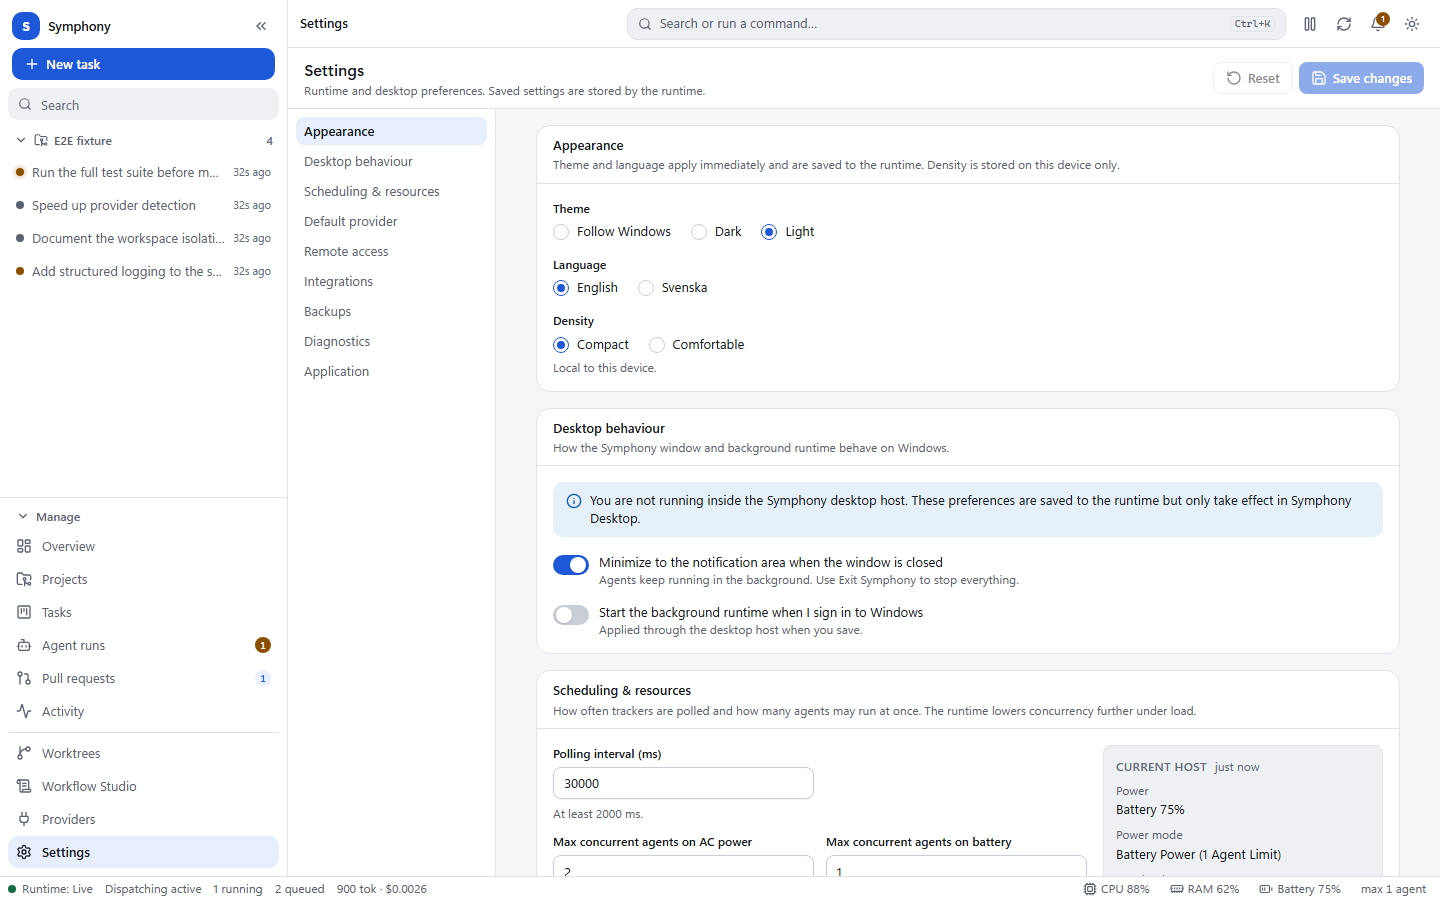
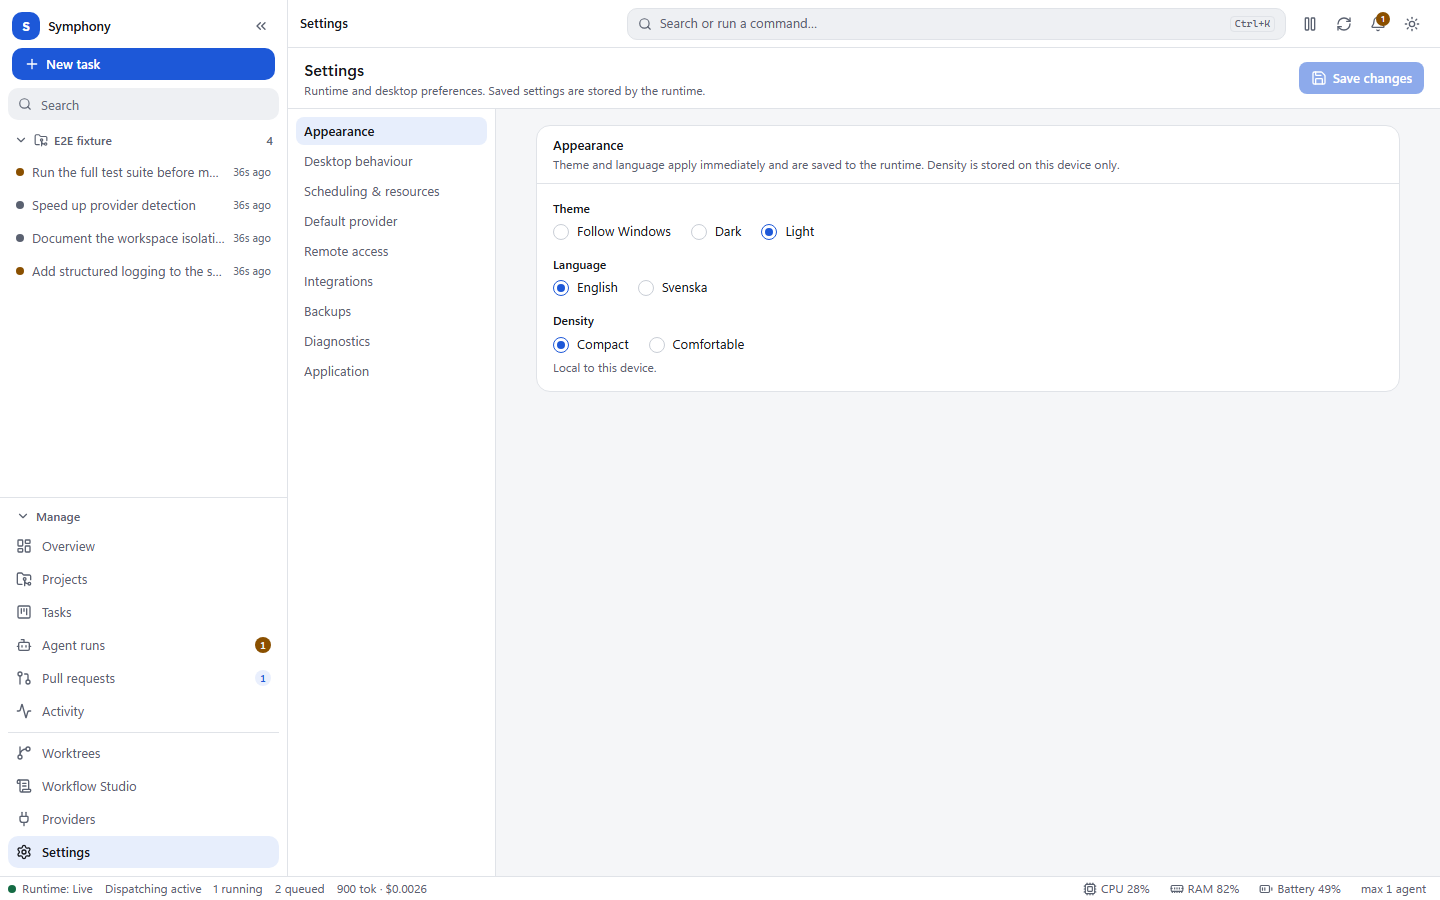
Show fewer things at once on the board, Settings and Providers
The Kanban board shows Backlog, Blocked and Cancelled only when they hold
a task or while a card is dragged (they stay drop targets). Settings
shows one section at a time and marks a section with an invalid field in
the section list. Each provider card keeps capabilities and models behind
one disclosure. The shortcuts e2e now opens the Application section
first, and the board and Settings screenshots are refreshed.

diff --git a/apps/desktop/src/features/settings/SettingsPage.tsx b/apps/desktop/src/features/settings/SettingsPage.tsx
@@ -1,8 +1,8 @@
-import { useCallback, useMemo, useState } from "react";
+import { useCallback, useMemo, useRef, useState } from "react";
 import { RotateCcw, Save } from "lucide-react";
 import { errorMessage } from "@symphony/api-client";
 import { formatMessage, type AppSettings, type Locale } from "@symphony/shared-types";
-import { Alert, Badge, Button, cn, ErrorState, LoadingRows, PageHeader, Spinner, useDesign, useNotify, type ThemeMode } from "@symphony/ui";
+import { Alert, Badge, Button, cn, ErrorState, LoadingRows, PageHeader, Spinner, useNotify, type ThemeMode } from "@symphony/ui";
 import { useMessages } from "../../lib/i18n.js";
 import { useSaveSettings, useSettings } from "../../lib/queries.js";
 import { useUiStore } from "../../store/uiStore.js";
@@ -18,11 +18,25 @@ import {
   RemoteSection,
   SECTION_IDS,
   SchedulingSection,
-  sectionDomId,
   type SectionId
 } from "./sections.js";
 import { portOf, serverErrorFields, validateSettings, type SettingsErrors, type SettingsField } from "./validation.js";
 import { useRuntime } from "../../runtime/RuntimeProvider.js";
+
+/** The section each validated field lives in, so the nav can flag a section that has an error. */
+const SECTION_FIELDS: Partial<Record<SectionId, ReadonlyArray<SettingsField>>> = {
+  scheduling: [
+    "polling_interval_ms",
+    "max_concurrent_on_ac",
+    "max_concurrent_on_battery",
+    "high_memory_threshold_percent",
+    "high_cpu_threshold_percent",
+    "event_retention_days",
+    "pr_refresh_interval_minutes"
+  ],
+  remote: ["remote_bind_address", "remote_port", "remote_allowed_origins"],
+  backups: ["backup_interval_hours", "backup_keep"]
+};
 
 /** Fields edited through the draft form (theme/locale persist immediately; others are not edited here). */
 type EditableSettings = Pick<
@@ -80,7 +94,6 @@ function sameEditable(a: AppSettings, b: AppSettings): boolean {
 export default function SettingsPage() {
   const m = useMessages(settingsMessages);
   const notify = useNotify();
-  const { reducedMotion } = useDesign();
   const settings = useSettings();
   const save = useSaveSettings();
   const themeMode = useUiStore((s) => s.themeMode);
@@ -151,9 +164,11 @@ export default function SettingsPage() {
   const onTheme = (mode: ThemeMode) => setThemeMode(mode);
   const onLocale = (next: Locale) => setLocale(next);
 
+  // One section at a time keeps the page short; edits live in the shared draft, so switching loses nothing.
+  const content = useRef<HTMLDivElement>(null);
   const goTo = (id: SectionId) => {
     setActive(id);
-    document.getElementById(sectionDomId(id))?.scrollIntoView({ block: "start", behavior: reducedMotion ? "auto" : "smooth" });
+    content.current?.scrollTo({ top: 0 });
   };
 
   return (
@@ -209,12 +224,15 @@ export default function SettingsPage() {
                   )}
                 >
                   {m.sections[id]}
+                  {(SECTION_FIELDS[id] ?? []).some((field) => errors[field]) ? (
+                    <span className="ms-auto size-2 shrink-0 rounded-full bg-destructive" role="img" aria-label={m.invalidSection} />
+                  ) : null}
                 </button>
               </li>
             ))}
           </ul>
         </nav>
-        <div className="min-h-0 flex-1 overflow-auto">
+        <div ref={content} className="min-h-0 flex-1 overflow-auto">
           <div className="mx-auto flex max-w-4xl flex-col gap-4 p-4">
             {settings.isPending ? (
               <LoadingRows rows={10} label={m.title} />
@@ -225,22 +243,24 @@ export default function SettingsPage() {
                 {serverMessage ? (
                   <Alert intent="error" title={m.saveFailed}>{serverMessage}</Alert>
                 ) : null}
-                <AppearanceSection
-                  themeMode={themeMode}
-                  locale={locale}
-                  density={density}
-                  onTheme={onTheme}
-                  onLocale={onLocale}
-                  onDensity={setDensity}
-                />
-                <DesktopSection draft={current} errors={errors} update={update} />
-                <SchedulingSection draft={current} errors={errors} update={update} />
-                <DefaultsSection draft={current} errors={errors} update={update} />
-                <RemoteSection draft={current} errors={errors} update={update} />
-                <IntegrationsSection />
-                <BackupsSection draft={current} errors={errors} update={update} />
-                <DiagnosticsSection />
-                <ApplicationSection />
+                {active === "appearance" ? (
+                  <AppearanceSection
+                    themeMode={themeMode}
+                    locale={locale}
+                    density={density}
+                    onTheme={onTheme}
+                    onLocale={onLocale}
+                    onDensity={setDensity}
+                  />
+                ) : null}
+                {active === "desktop" ? <DesktopSection draft={current} errors={errors} update={update} /> : null}
+                {active === "scheduling" ? <SchedulingSection draft={current} errors={errors} update={update} /> : null}
+                {active === "defaults" ? <DefaultsSection draft={current} errors={errors} update={update} /> : null}
+                {active === "remote" ? <RemoteSection draft={current} errors={errors} update={update} /> : null}
+                {active === "integrations" ? <IntegrationsSection /> : null}
+                {active === "backups" ? <BackupsSection draft={current} errors={errors} update={update} /> : null}
+                {active === "diagnostics" ? <DiagnosticsSection /> : null}
+                {active === "application" ? <ApplicationSection /> : null}
               </>
             )}
           </div>

diff --git a/apps/desktop/src/features/providers/ProviderCard.tsx b/apps/desktop/src/features/providers/ProviderCard.tsx
@@ -177,40 +177,48 @@ export const ProviderCard: React.FC<ProviderCardProps> = React.memo(function Pro
         ) : null}
       </Section>
 
-      <Section title={m.capabilities}>
-        <ul
-          aria-label={formatMessage(m.capabilitiesLabel, { provider: provider.display_name })}
-          className="grid grid-cols-1 gap-x-4 gap-y-1 @md:grid-cols-2"
-        >
-          {capabilities.map(({ key, supported }) => (
-            <li key={key} className="flex items-center gap-1.5 text-sm">
-              {supported ? (
-                <Check className="size-4 shrink-0 text-success" aria-hidden />
-              ) : (
-                <X className="size-4 shrink-0 text-subtle-foreground" aria-hidden />
-              )}
-              <span className={supported ? "text-foreground" : "text-muted-foreground"}>{m.capability[key]}</span>
-              <span className="sr-only">: {supported ? m.supported : m.unsupported}</span>
-            </li>
-          ))}
-        </ul>
-      </Section>
+      {/* Reference detail: one click away instead of two more sections on every card. */}
+      <details className="rounded-md border border-border @2xl:col-span-2">
+        <summary className="cursor-pointer select-none px-3 py-2 text-xs font-semibold uppercase tracking-wide text-subtle-foreground">
+          {m.moreDetails}
+        </summary>
+        <div className="grid gap-4 border-t border-border p-3 @2xl:grid-cols-2">
+          <Section title={m.capabilities}>
+            <ul
+              aria-label={formatMessage(m.capabilitiesLabel, { provider: provider.display_name })}
+              className="grid grid-cols-1 gap-x-4 gap-y-1 @md:grid-cols-2"
+            >
+              {capabilities.map(({ key, supported }) => (
+                <li key={key} className="flex items-center gap-1.5 text-sm">
+                  {supported ? (
+                    <Check className="size-4 shrink-0 text-success" aria-hidden />
+                  ) : (
+                    <X className="size-4 shrink-0 text-subtle-foreground" aria-hidden />
+                  )}
+                  <span className={supported ? "text-foreground" : "text-muted-foreground"}>{m.capability[key]}</span>
+                  <span className="sr-only">: {supported ? m.supported : m.unsupported}</span>
+                </li>
+              ))}
+            </ul>
+          </Section>
 
-      <Section title={m.models}>
-        {models.length > 0 ? (
-          <ul className="flex flex-wrap gap-1.5" aria-label={m.models}>
-            {models.map((name) => (
-              <li key={name}>
-                <Badge tone="outline" className="font-mono">
-                  {name}
-                </Badge>
-              </li>
-            ))}
-          </ul>
-        ) : (
-          <p className="text-xs text-muted-foreground">{m.noModels}</p>
-        )}
-      </Section>
+          <Section title={m.models}>
+            {models.length > 0 ? (
+              <ul className="flex flex-wrap gap-1.5" aria-label={m.models}>
+                {models.map((name) => (
+                  <li key={name}>
+                    <Badge tone="outline" className="font-mono">
+                      {name}
+                    </Badge>
+                  </li>
+                ))}
+              </ul>
+            ) : (
+              <p className="text-xs text-muted-foreground">{m.noModels}</p>
+            )}
+          </Section>
+        </div>
+      </details>
 
       <div className="space-y-2 border-t border-border pt-3 @2xl:col-span-2">
         <div className="flex flex-wrap items-end gap-2">

diff --git a/apps/desktop/src/features/tasks/tasks.test.tsx b/apps/desktop/src/features/tasks/tasks.test.tsx
@@ -2,10 +2,11 @@ import { fireEvent, screen, waitFor, within } from "@testing-library/react";
 import { describe, expect, it, vi } from "vitest";
 import { getTranslations } from "@symphony/shared-types";
 import NewTaskDialog from "../composer/NewTaskDialog.js";
+import TasksPage from "./TasksPage.js";
 import { deriveTitle } from "../composer/TaskComposer.js";
 import { allowedMoveTargets, applyDrop, parseLabels, resolveDrop } from "./taskLogic.js";
 import { createMockRuntime, renderWithProviders } from "../../test/renderWithProviders.js";
-import { project, providerStatus, settings, task } from "../../test/fixtures.js";
+import { project, providerStatus, settings, snapshot, task } from "../../test/fixtures.js";
 import { useUiStore } from "../../store/uiStore.js";
 
 describe("board state machine", () => {
@@ -124,5 +125,29 @@ describe("deriveTitle", () => {
     const early = `${"a".repeat(30)} ${"b".repeat(30)} ${"c".repeat(10)} ${"d".repeat(40)}`;
     expect(deriveTitle(early)).toBe(`${"a".repeat(30)} ${"b".repeat(30)} ${"c".repeat(10)}…`);
     expect(deriveTitle("#\nFix the build")).toBe("Fix the build");
+  });
+});
+
+describe("task board columns", () => {
+  const boardRuntime = (tasks: ReturnType<typeof task>[]) =>
+    createMockRuntime({
+      "GET /settings": () => settings(),
+      "GET /state": () => snapshot(),
+      "GET /projects": () => [project({ id: "p1" })],
+      "GET /tasks": () => tasks,
+      "GET /approvals": () => [],
+      "GET /providers": () => []
+    });
+
+  it("shows Backlog, Blocked and Cancelled only once they hold a task", async () => {
+    useUiStore.getState().setTaskView("board");
+    const { unmount } = renderWithProviders(<TasksPage />, { runtime: boardRuntime([task({ id: "a", project_id: "p1", status: "ready" })]), route: "/tasks" });
+    expect(await screen.findByRole("region", { name: "Ready" })).toBeInTheDocument();
+    for (const name of ["Backlog", "Blocked", "Cancelled"]) expect(screen.queryByRole("region", { name })).not.toBeInTheDocument();
+    unmount();
+
+    renderWithProviders(<TasksPage />, { runtime: boardRuntime([task({ id: "b", project_id: "p1", status: "blocked" })]), route: "/tasks" });
+    expect(await screen.findByRole("region", { name: "Blocked" })).toBeInTheDocument();
+    expect(screen.queryByRole("region", { name: "Backlog" })).not.toBeInTheDocument();
   });
 });

diff --git a/apps/desktop/src/features/settings/settings.test.tsx b/apps/desktop/src/features/settings/settings.test.tsx
@@ -264,13 +264,40 @@ describe("BackupsSection", () => {
 });
 
 describe("SettingsPage", () => {
-  it("offers Reset only once something has been edited", async () => {
+  const renderPage = () => {
     const rt = createMockRuntime({ "GET /settings": () => settings(), "GET /providers": () => [] });
     renderWithProviders(<SettingsPage />, { runtime: rt, route: "/settings" });
+  };
+  const openSection = (name: string) => fireEvent.click(within(screen.getByRole("navigation", { name: "Settings sections" })).getByRole("button", { name }));
+
+  it("shows one section at a time", async () => {
+    renderPage();
+    expect(await screen.findByRole("heading", { name: "Appearance" })).toBeInTheDocument();
+    expect(screen.queryByRole("heading", { name: "Backups" })).not.toBeInTheDocument();
+    openSection("Backups");
+    expect(await screen.findByRole("heading", { name: "Backups" })).toBeInTheDocument();
+    expect(screen.queryByRole("heading", { name: "Appearance" })).not.toBeInTheDocument();
+  });
+
+  it("offers Reset only once something has been edited", async () => {
+    renderPage();
+    await screen.findByRole("heading", { name: "Appearance" });
+    openSection("Scheduling & resources");
     const polling = await screen.findByLabelText("Polling interval (ms)");
     expect(screen.queryByRole("button", { name: "Reset" })).not.toBeInTheDocument();
     expect(screen.getByRole("button", { name: "Save changes" })).toBeDisabled();
     fireEvent.change(polling, { target: { value: "45000" } });
     expect(await screen.findByRole("button", { name: "Reset" })).toBeEnabled();
+  });
+
+  it("marks a section that has an invalid field even while another section is open", async () => {
+    renderPage();
+    await screen.findByRole("heading", { name: "Appearance" });
+    openSection("Scheduling & resources");
+    fireEvent.change(await screen.findByLabelText("Polling interval (ms)"), { target: { value: "10" } });
+    openSection("Appearance");
+    const nav = screen.getByRole("navigation", { name: "Settings sections" });
+    expect(within(within(nav).getByRole("button", { name: /Scheduling & resources/ })).getByRole("img", { name: "Has a field that needs attention" })).toBeInTheDocument();
+    expect(within(within(nav).getByRole("button", { name: /Appearance/ })).queryByRole("img")).not.toBeInTheDocument();
   });
 });

diff --git a/apps/desktop/src/features/tasks/TaskBoard.tsx b/apps/desktop/src/features/tasks/TaskBoard.tsx
@@ -35,6 +35,12 @@ const PAGE_SIZE = 60;
 const STATUS_SET = new Set<string>(ALL_TASK_STATUSES);
 
 /**
+ * Parking states that are usually empty. Their columns are shown only while they hold a task or a card
+ * is being dragged (so they remain drop targets); the card menu can always move a task there.
+ */
+const OCCASIONAL_STATUSES = new Set<TaskStatus>(["backlog", "blocked", "cancelled"]);
+
+/**
  * Pointer: drop only on the column under the cursor (a gutter is no drop); keyboard drags have no
  * pointer coordinates, so they use rectangle overlap.
  */
@@ -186,7 +192,7 @@ const BoardColumn = React.memo(function BoardColumn({
   );
 });
 
-/** Kanban board with all nine status columns and state-machine-validated drag and drop. */
+/** Kanban board over the task statuses with state-machine-validated drag and drop. */
 export const TaskBoard: React.FC<{ tasks: ReadonlyArray<Task> }> = ({ tasks }) => {
   const m = useMessages(taskMessages);
   const t = useT();
@@ -253,7 +259,7 @@ export const TaskBoard: React.FC<{ tasks: ReadonlyArray<Task> }> = ({ tasks }) =
       accessibility={{ announcements, screenReaderInstructions: { draggable: m.dnd.instructions } }}
     >
       <div className="flex h-full min-h-0 gap-2 overflow-x-auto p-3" role="group" aria-label={m.page.boardLabel}>
-        {ALL_TASK_STATUSES.map((status) => (
+        {ALL_TASK_STATUSES.filter((status) => activeTask !== null || !OCCASIONAL_STATUSES.has(status) || grouped[status].length > 0).map((status) => (
           <BoardColumn
             key={status}
             status={status}

diff --git a/apps/desktop/src/features/providers/messages.ts b/apps/desktop/src/features/providers/messages.ts
@@ -23,6 +23,7 @@ export const providerMessages = defineMessages({
       "The runtime could not verify sign-in for this CLI. It may still be signed in through its own login; Symphony does not assume it is.",
     authUnauthenticatedHelp: "Sign in with the provider CLI or store an API key below before dispatching tasks.",
     capabilities: "Capabilities",
+    moreDetails: "Capabilities and models",
     capabilitiesLabel: "{provider} capabilities",
     supported: "Supported",
     unsupported: "Not supported",
@@ -94,6 +95,7 @@ export const providerMessages = defineMessages({
       "Körtiden kunde inte verifiera inloggningen för denna CLI. Den kan ändå vara inloggad via sin egen inloggning; Symphony antar inte det.",
     authUnauthenticatedHelp: "Logga in med leverantörens CLI eller spara en API-nyckel nedan innan du startar uppgifter.",
     capabilities: "Förmågor",
+    moreDetails: "Förmågor och modeller",
     capabilitiesLabel: "Förmågor för {provider}",
     supported: "Stöds",
     unsupported: "Stöds inte",

diff --git a/apps/desktop/src/features/settings/messages.ts b/apps/desktop/src/features/settings/messages.ts
@@ -5,6 +5,7 @@ export const settingsMessages = defineMessages({
     title: "Settings",
     description: "Runtime and desktop preferences. Saved settings are stored by the runtime.",
     sectionsNav: "Settings sections",
+    invalidSection: "Has a field that needs attention",
     loadError: "Could not load settings",
     unsaved: "Unsaved changes",
     invalidCount: "{count, plural, one {# field needs} other {# fields need}} attention",
@@ -234,6 +235,7 @@ export const settingsMessages = defineMessages({
     title: "Inställningar",
     description: "Inställningar för körtid och skrivbord. Sparade inställningar lagras av körtiden.",
     sectionsNav: "Inställningsavsnitt",
+    invalidSection: "Har ett fält som behöver åtgärdas",
     loadError: "Det gick inte att läsa in inställningarna",
     unsaved: "Osparade ändringar",
     invalidCount: "{count} fält behöver åtgärdas",

diff --git a/apps/desktop/e2e/shortcuts.spec.ts b/apps/desktop/e2e/shortcuts.spec.ts
@@ -20,6 +20,7 @@ test("keyboard shortcut help opens with F1, from the palette and from Settings, 
   await page.keyboard.press("Escape");
 
   await openApp(page, "/settings");
+  await page.getByRole("navigation", { name: "Settings sections" }).getByRole("button", { name: "Application" }).click();
   await page.getByRole("button", { name: "Show keyboard shortcuts" }).click();
   await expect(dialog).toBeVisible();
 });

diff --git a/docs/UI_ARCHITECTURE.md b/docs/UI_ARCHITECTURE.md
@@ -132,7 +132,7 @@ loaded chunk; the CodeMirror editor is a separate lazy chunk loaded only by Work
 | --- | --- |
 | Overview | Metrics from the snapshot/tasks, live sessions, pending approvals (decide inline), persisted + live activity. |
 | Projects | Full-width repository table (columns drop by container width) with the selected project's settings in a side sheet, guided Add repository (native folder picker in Tauri, runtime validation, checkout-root resolution), delete with confirmation (409 while running). |
-| Tasks | 9-column Kanban (dnd-kit, keyboard + menu moves validated by the shared state machine before any request) and a data table; New task dialog (`auto_start`). |
+| Tasks | Kanban by status (dnd-kit, keyboard + menu moves validated by the shared state machine before any request; the occasional Backlog, Blocked and Cancelled columns appear only when they hold a task or while a card is dragged, empty columns are slim) and a data table; New task dialog (`auto_start`). |
 | Agent runs | One row per task by precedence (live > approval > retrying > queued > recent finished), grouping by status/provider/project, capability-gated actions. |
 | Home / composer | Large prompt box with chips: repository (shows the base branch), provider + model, priority, labels, *Run now* / *Add to queue* (`auto_start`). The first line of the prompt is the title, the whole prompt the description; the identifier is generated. Recent threads below. The same composer opens in a dialog (Ctrl+N) from other views. |
 | Thread (`/runs/:taskId`) | Prompt, merged persisted + live timeline (concise/technical, kind filters, tail-following), pinned approvals, inline follow-up box (`POST /tasks/{id}/continue`, only after a run ended, 20 000 character limit) and a run-details panel (Changes, Validation, Tool calls, Usage, Pull request, Context). Wide windows dock the panel, narrow ones open it as a sheet. |

diff --git a/CHANGELOG.md b/CHANGELOG.md
@@ -117,7 +117,10 @@ one. The HTTP API is versioned separately (`API_VERSION`, see `CONTRIBUTING.md`)
   concise run timeline leaves out the contentless "Event: item/started"-style protocol rows (the
   technical view keeps every event). Empty Kanban columns are slim, so more of the populated ones fit on
   screen, and Settings shows *Reset* only once something has been edited. The Overview live-sessions
-  table no longer clips its last column: Project and Tokens appear only on wide windows.
+  table no longer clips its last column: Project and Tokens appear only on wide windows. The Kanban
+  board shows Backlog, Blocked and Cancelled only when they hold a task or while a card is dragged.
+  Settings shows one section at a time (a dot in the section list marks one with an invalid field), and
+  each provider card keeps capabilities and models behind a single "Capabilities and models" disclosure.
 - **One component system on the desktop**: Fluent UI and the OpenAI Apps SDK UI are removed from the
   desktop app and the shared UI package in favour of shadcn/ui (Radix) with Tailwind tokens, so controls,
   dialogs and tabs share one sizing, one set of breakpoints and one CSS layer order. Markdown uses
